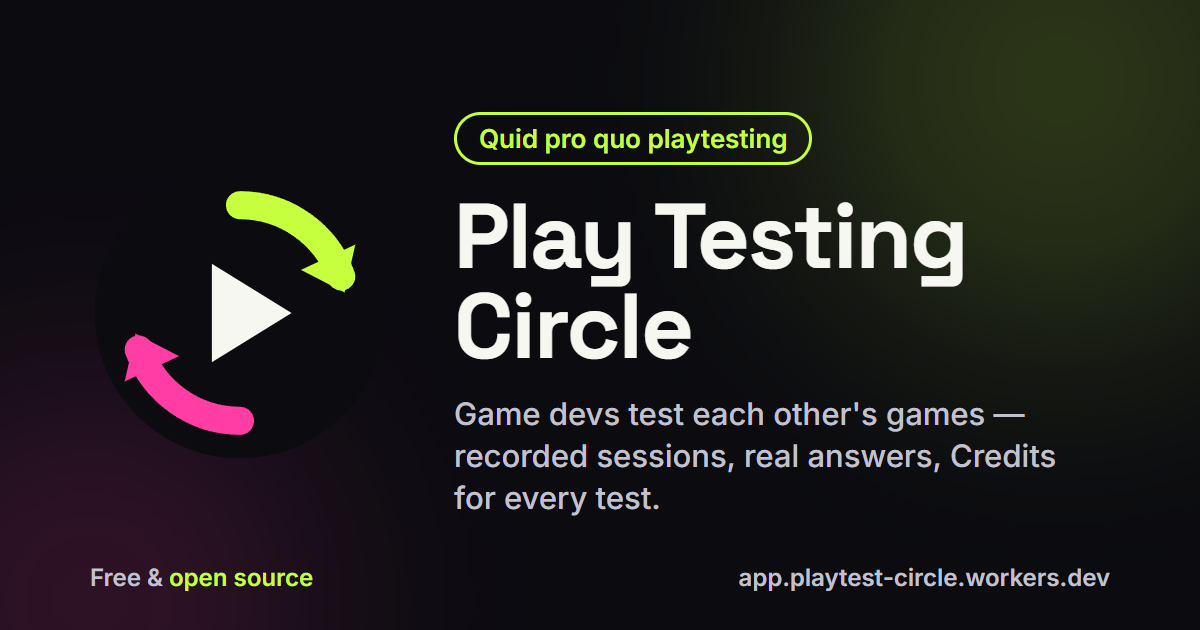
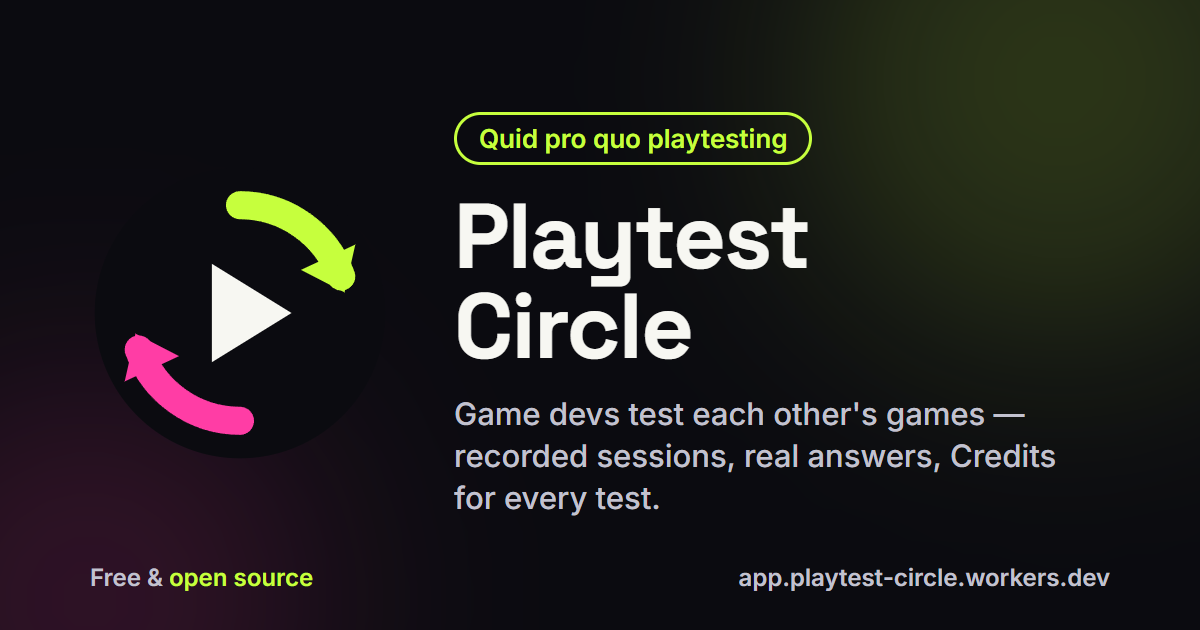
Rename to Playtest Circle, price advice, campaign prefills
- Rename the brand from "Play Testing Circle" to "Playtest Circle" and regenerate the share image
- Color-coded price advice in the campaign wizard (fair rate scales with playtime)
- New campaigns start prefilled from the last published one
- Reload the target page when a chunk from an older deploy is missing

Claude-Session: https://claude.ai/code/session_01UmMeuiNP6qcuLxDgJ1ppoi

Changed region(s): [[0.5242, 0.3016, 0.8017, 0.4524]]

diff --git a/src/pages/studio/CampaignWizardPage.vue b/src/pages/studio/CampaignWizardPage.vue
@@ -12,6 +12,7 @@ import {
   SLOTS_MAX,
   escrowFor,
   type PlaytimePresetId,
+  priceAdvice,
 } from '@shared/rules'
 import type { CampaignInput, Game } from '@shared/types'
 import StepNav from '@/components/StepNav.vue'
@@ -46,13 +47,15 @@ const form = reactive({
 })
 
 const restored = ref(false)
-const draft = useDraft<{ form: typeof form; step: number }>(
+const prefilled = ref(false)
+const draft = useDraft<{ form: typeof form; step: number; prefill?: boolean }>(
   'campaign:new',
-  () => ({ form: { ...form, catalogIds: [...form.catalogIds], custom: form.custom.map((c) => ({ ...c })) }, step: step.value }),
+  () => ({ prefill: prefilled.value, form: { ...form, catalogIds: [...form.catalogIds], custom: form.custom.map((c) => ({ ...c })) }, step: step.value }),
   (d) => {
     Object.assign(form, d.form)
     step.value = d.step
-    restored.value = true
+    if (d.prefill) prefilled.value = true
+    else restored.value = true
   },
 )
 
@@ -71,6 +74,14 @@ onMounted(async () => {
 })
 
 const steps = computed(() => ['build', 'questions', 'playtime', 'pricing', 'review'].map((s) => t(`wizard.steps.${s}`)))
+const advice = computed(() => priceAdvice(form.price, form.playtimePreset))
+const ADVICE_STYLE = {
+  low: 'border-danger-ink text-danger-ink',
+  under: 'border-warn-ink text-warn-ink',
+  fair: 'border-primary-ink text-primary-ink',
+  fast: 'border-info-ink text-info-ink',
+} as const
+const ADVICE_ICON = { low: '▼', under: '◐', fair: '✓', fast: '⚡' } as const
 const total = computed(() => escrowFor(form.slots, form.price))
 const balance = computed(() => session.me?.credits ?? 0)
 const affordable = computed(() => total.value <= balance.value)
@@ -107,7 +118,11 @@ async function publish() {
   try {
     const r = await api<{ id: string }>('/campaigns', { method: 'POST', json: body })
     await session.refresh()
-    draft.discard()
+    // The next campaign starts from this one's settings; only the build label is new each time.
+    form.buildLabel = ''
+    step.value = 0
+    prefilled.value = true
+    draft.keep()
     router.push(`/studio/campaigns/${r.id}?published=1`)
   } catch (e) {
     error.value = errorText(e, 'wizard.errors')
@@ -125,9 +140,9 @@ async function publish() {
     </header>
     <p v-if="justCreated" class="rounded-xl border-2 border-primary-ink p-3 font-semibold text-primary-ink" role="status">✓ {{ $t('game.created') }}</p>
     <StepNav :steps="steps" :current="step" @go="step = $event" />
-    <p v-if="restored" class="flex flex-wrap items-center justify-between gap-3 rounded-xl border-2 border-info-ink p-3 font-semibold text-info-ink" role="status">
-      {{ $t('draft.restored') }}
-      <button type="button" class="btn btn-ghost min-h-9 py-1" @click="discardDraft">{{ $t('draft.discard') }}</button>
+    <p v-if="restored || prefilled" class="flex flex-wrap items-center justify-between gap-3 rounded-xl border-2 border-info-ink p-3 font-semibold text-info-ink" role="status">
+      {{ $t(restored ? 'draft.restored' : 'draft.prefilled') }}
+      <button type="button" class="btn btn-ghost min-h-9 py-1" @click="discardDraft">{{ $t(restored ? 'draft.discard' : 'draft.clear') }}</button>
     </p>
 
     <div v-if="!games.length" class="card space-y-3 p-6">
@@ -263,6 +278,16 @@ async function publish() {
             <input v-model.number="form.price" type="number" class="input" :min="PRICE_MIN" :max="PRICE_MAX" step="1" data-testid="price" />
             <span class="field-hint">{{ $t('wizard.priceHint', { min: PRICE_MIN, max: PRICE_MAX }) }}</span>
           </label>
+          <div class="rounded-xl border-2 p-3" :class="ADVICE_STYLE[advice.tier]" role="status" data-testid="price-advice">
+            <p class="font-semibold">
+              <span aria-hidden="true">{{ ADVICE_ICON[advice.tier] }}</span> {{ $t(`wizard.advice.${advice.tier}`) }}
+            </p>
+            <p class="text-sm text-ink">{{ $t('wizard.advice.scale', { fair: advice.fair, fast: advice.fast, playtime: $t(`presets.playtime.${form.playtimePreset}`) }) }}</p>
+          </div>
+          <div class="flex flex-wrap gap-2 text-sm">
+            <button type="button" class="btn btn-ghost min-h-9 py-1" @click="form.price = advice.fair">{{ $t('wizard.advice.useFair', { n: advice.fair }) }}</button>
+            <button type="button" class="btn btn-ghost min-h-9 py-1" @click="form.price = advice.fast">⚡ {{ $t('wizard.advice.useFast', { n: advice.fast }) }}</button>
+          </div>
         </div>
         <label class="block max-w-xs">
           <span class="field-label">{{ $t('wizard.slots') }}</span>

diff --git a/index.html b/index.html
@@ -3,12 +3,12 @@
   <head>
     <meta charset="UTF-8" />
     <meta name="viewport" content="width=device-width, initial-scale=1.0" />
-    <title>Play Testing Circle</title>
+    <title>Playtest Circle</title>
     <meta name="description" content="Quid pro quo playtesting — game devs test each other's games, record the session and answer real questions. Open source." />
     <meta name="color-scheme" content="dark light" />
     <meta name="theme-color" content="#0B0B10" />
     <link rel="icon" type="image/svg+xml" href="/logo.svg" />
-    <meta property="og:title" content="Play Testing Circle" />
+    <meta property="og:title" content="Playtest Circle" />
     <meta property="og:description" content="Quid pro quo playtesting for game devs." />
     <meta property="og:image" content="https://app.playtest-circle.workers.dev/og-image.png" />
     <meta property="og:image:width" content="1200" />

diff --git a/shared/rules.ts b/shared/rules.ts
@@ -152,3 +152,18 @@ export function pickEvictions(
   }
   return out
 }
+
+/** Credits per minute of playtime that we consider a fair trade between devs. */
+export const FAIR_CREDITS_PER_MINUTE = 2
+
+export type PriceTier = 'low' | 'under' | 'fair' | 'fast'
+
+/** How a price compares with the fair rate for the playtime the dev asks for. */
+export function priceAdvice(price: number, preset: PlaytimePresetId) {
+  const p = PLAYTIME_PRESETS.find((x) => x.id === preset) ?? PLAYTIME_PRESETS[0]
+  const minutes = p.targetMinutes ?? p.minMinutes * 2
+  const fair = Math.max(PRICE_MIN, Math.round(minutes * FAIR_CREDITS_PER_MINUTE))
+  const fast = Math.min(PRICE_MAX, Math.ceil(fair * 1.5))
+  const tier: PriceTier = price < fair * 0.6 ? 'low' : price < fair ? 'under' : price < fast ? 'fair' : 'fast'
+  return { fair, fast, tier }
+}

diff --git a/tests/rules.test.ts b/tests/rules.test.ts
@@ -1,5 +1,5 @@
 import { describe, expect, it } from 'vitest'
-import {
+import { priceAdvice,
   PRICE_MAX,
   PRICE_MIN,
   RECORDING,
@@ -125,5 +125,14 @@ describe('pickEvictions', () => {
 
   it('defaults to the global budget', () => {
     expect(pickEvictions([c('a', 1, false)], STORAGE_BUDGET_BYTES, 1)).toEqual(['a'])
+  })
+})
+
+describe('priceAdvice', () => {
+  it('scales the fair price with playtime and grades the offer', () => {
+    expect(priceAdvice(10, 'quick')).toEqual({ fair: 10, fast: 15, tier: 'fair' })
+    expect(priceAdvice(5, 'quick').tier).toBe('low')
+    expect(priceAdvice(15, 'standard').tier).toBe('under')
+    expect(priceAdvice(60, 'deep').tier).toBe('fast')
   })
 })

diff --git a/src/router.ts b/src/router.ts
@@ -39,3 +39,16 @@ router.beforeEach(async (to) => {
   if (!session.me.onboarded && to.name !== 'tutorial') return { name: 'tutorial' }
   return true
 })
+
+// After a deploy, an open tab still points at old chunk hashes that no longer exist.
+// Load the target page fresh instead of failing (form drafts survive the reload).
+router.onError((err, to) => {
+  if (/dynamically imported module|Importing a module script failed|module script/i.test(String(err?.message))) {
+    const key = 'ptc-chunk-reload'
+    try {
+      if (sessionStorage.getItem(key) === to.fullPath) return
+      sessionStorage.setItem(key, to.fullPath)
+    } catch {}
+    window.location.assign(to.fullPath)
+  }
+})

diff --git a/worker/mail.ts b/worker/mail.ts
@@ -99,7 +99,7 @@ async function smtpSend(env: Env, mail: Mail) {
     await reply(250)
     await send('DATA')
     await reply(354)
-    const body = buildMime(env.SMTP_USER!, env.MAIL_FROM_NAME ?? 'Play Testing Circle', mail).replace(/^\./gm, '..')
+    const body = buildMime(env.SMTP_USER!, env.MAIL_FROM_NAME ?? 'Playtest Circle', mail).replace(/^\./gm, '..')
     await writer.write(enc.encode(body + '\r\n.\r\n'))
     await reply(250)
     await send('QUIT')

diff --git a/worker/routes/me.ts b/worker/routes/me.ts
@@ -66,7 +66,7 @@ meRoutes.post('/me/test-discord', async (c) => {
   const res = await fetch(row.discord_webhook, {
     method: 'POST',
     headers: { 'content-type': 'application/json' },
-    body: JSON.stringify({ username: 'Play Testing Circle', content: tr('notifications.discordTest') }),
+    body: JSON.stringify({ username: 'Playtest Circle', content: tr('notifications.discordTest') }),
   })
   return c.json({ ok: res.ok })
 })

diff --git a/tests/mail.test.ts b/tests/mail.test.ts
@@ -3,7 +3,7 @@ import { buildMime } from '../worker/mail'
 
 describe('buildMime', () => {
   it('encodes UTF-8 subject and bodies and keeps lines short', () => {
-    const mime = buildMime('bot@example.com', 'Play Testing Circle', {
+    const mime = buildMime('bot@example.com', 'Playtest Circle', {
       to: 'dev@example.com',
       subject: 'Neuer Playtest für Dämon-Dash',
       text: 'Hallo ✨',

diff --git a/worker/notify.ts b/worker/notify.ts
@@ -49,7 +49,7 @@ export async function notify(
         method: 'POST',
         headers: { 'content-type': 'application/json' },
         body: JSON.stringify({
-          username: 'Play Testing Circle',
+          username: 'Playtest Circle',
           embeds: [{ title, description: body, url, color: 0xc6ff3d }],
         }),
       }),

diff --git a/src/composables/useDraft.ts b/src/composables/useDraft.ts
@@ -70,5 +70,10 @@ export function useDraft<T>(name: string, source: Ref<T> | (() => T), apply: (da
       active = false
       clear()
     },
+    /** Keep the current values as the prefill for the next form, then stop saving from this instance. */
+    keep() {
+      save()
+      active = false
+    },
   }
 }

diff --git a/implementation-plan.md b/implementation-plan.md
@@ -1,4 +1,4 @@
-# Play Testing Circle — implementation plan
+# Playtest Circle — implementation plan
 
 > *Quid pro quo playtesting.* An open-source, gated community where game devs earn **Credits** by playtesting each other's games and spend them to get their own games tested.
 
@@ -196,13 +196,13 @@ Indexes cover the browse query (status, price DESC, published_at) and per-owner 
 
 ## Brand & UI
 
-- **Logo** (SVG, also favicon + OG image): two arrows chasing each other in a circle (the quid-pro-quo exchange), with a play triangle in the centre. Wordmark: **Play Testing Circle**, subtitle *Quid pro quo playtesting*.
+- **Logo** (SVG, also favicon + OG image): two arrows chasing each other in a circle (the quid-pro-quo exchange), with a play triangle in the centre. Wordmark: **Playtest Circle**, subtitle *Quid pro quo playtesting*.
 - **Palette:** high contrast, WCAG AA minimum and AAA for body text. Near-black `#0B0B10` / off-white `#F7F7F2`, primary electric lime `#C6FF3D`, accent hot magenta `#FF3DA5`, info cyan `#3DD9FF`. Status colours are always paired with an icon and label, never colour alone.
 - **Type:** Space Grotesk for display, Inter for UI. Large hit targets and visible focus rings.
 - **Theme:** dark by default, with a Light / Dark / System toggle in the header and an inline pre-paint script so there's no flash. Colours are CSS tokens on `:root` with a `[data-theme]` override, mapped into Tailwind v4 `@theme`.
 - **Style:** fresh, slightly "game-y" (chunky cards, subtle glow on the lime CTA, motion that respects `prefers-reduced-motion`).
 - `docs/BRAND.md`: name, tagline, voice ("dev-to-dev, direct, generous"), logo usage, colour tokens with contrast ratios, type scale.
-- **Footer on every page:** "Play Testing Circle is open source and free — built by a game dev for game devs, no profit motive." Plus links to GitHub, Roadmap, Privacy, Terms and Imprint.
+- **Footer on every page:** "Playtest Circle is open source and free — built by a game dev for game devs, no profit motive." Plus links to GitHub, Roadmap, Privacy, Terms and Imprint.
 - **Legal pages:** Privacy (what's recorded, who can see it: only the campaign owner + the tester; 3-day deletion; account deletion), Terms (no NSFW without a tag, no malware links) and **Imprint**. An Impressum is legally required in Germany, so it's a placeholder you fill in.
 - **Account deletion** in Settings (GDPR): anonymises the user and deletes their recordings.
 - All user-facing copy goes through vue-i18n `src/i18n/en.json`, with aria-labels included.

diff --git a/docs/SETUP.md b/docs/SETUP.md
@@ -25,7 +25,7 @@ pnpm test:e2e    # Playwright in system Chrome: full playtest loop with real tab
 1. <https://console.cloud.google.com/> → new project **playtest-circle**.
 2. *APIs & Services → OAuth consent screen*:
    - User type **External**.
-   - App name *Play Testing Circle*, support email, logo `public/logo.svg` (exported as PNG).
+   - App name *Playtest Circle*, support email, logo `public/logo.svg` (exported as PNG).
    - Scopes: `openid`, `email`, `profile` only. These are non-sensitive, so no Google verification is needed.
    - **Publish app** → *In production*.
 3. *Credentials → Create credentials → OAuth client ID → Web application*. Authorised redirect URIs:
@@ -72,7 +72,7 @@ The free tier gives 10 GB of storage and free egress up to 3× the stored amount
 Devs get an email for every finished playtest by default, sent to their Google sign-in address. They can turn it off in Settings. Without a custom domain, the free way to send is Gmail SMTP with an **app password** from the operator's Google account. The limit is about 500 mails/day.
 
 1. Turn on 2-Step Verification for the sending Google account.
-2. <https://myaccount.google.com/apppasswords> → create an app password named "Play Testing Circle".
+2. <https://myaccount.google.com/apppasswords> → create an app password named "Playtest Circle".
 3. Store it:
    ```sh
    npx wrangler secret put SMTP_USER     # e.g. hyperg8.studio@gmail.com
